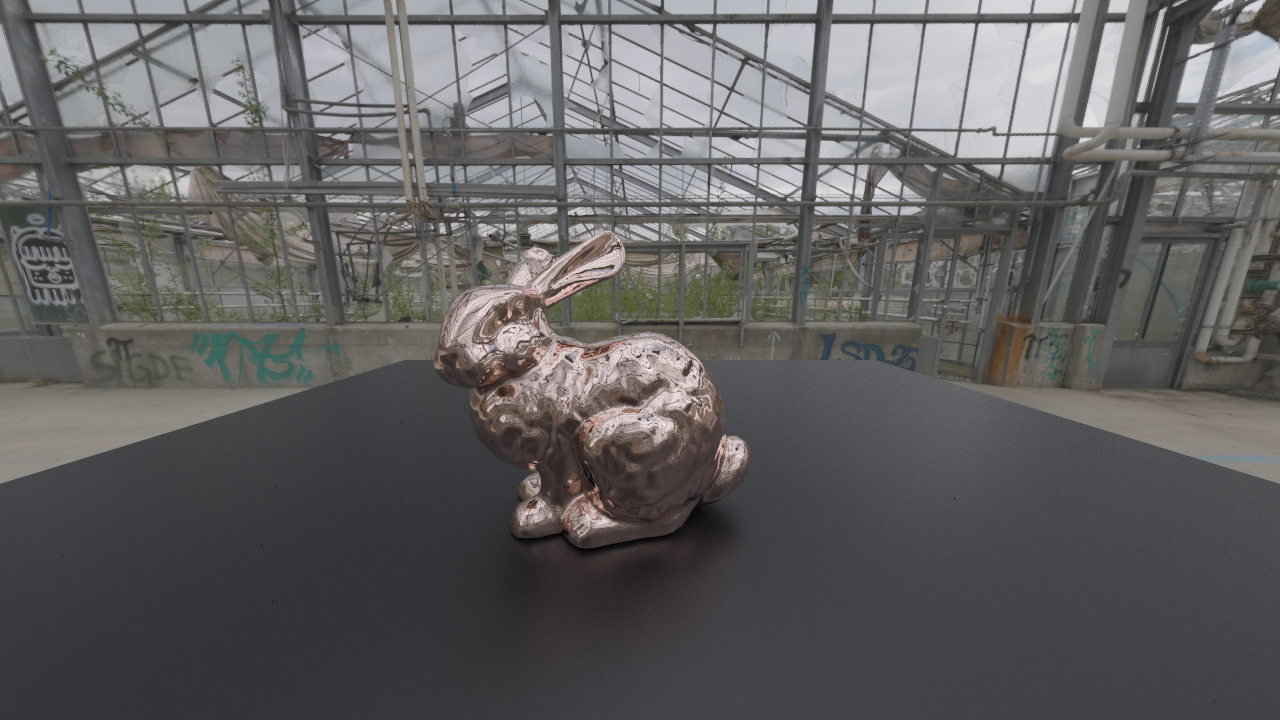
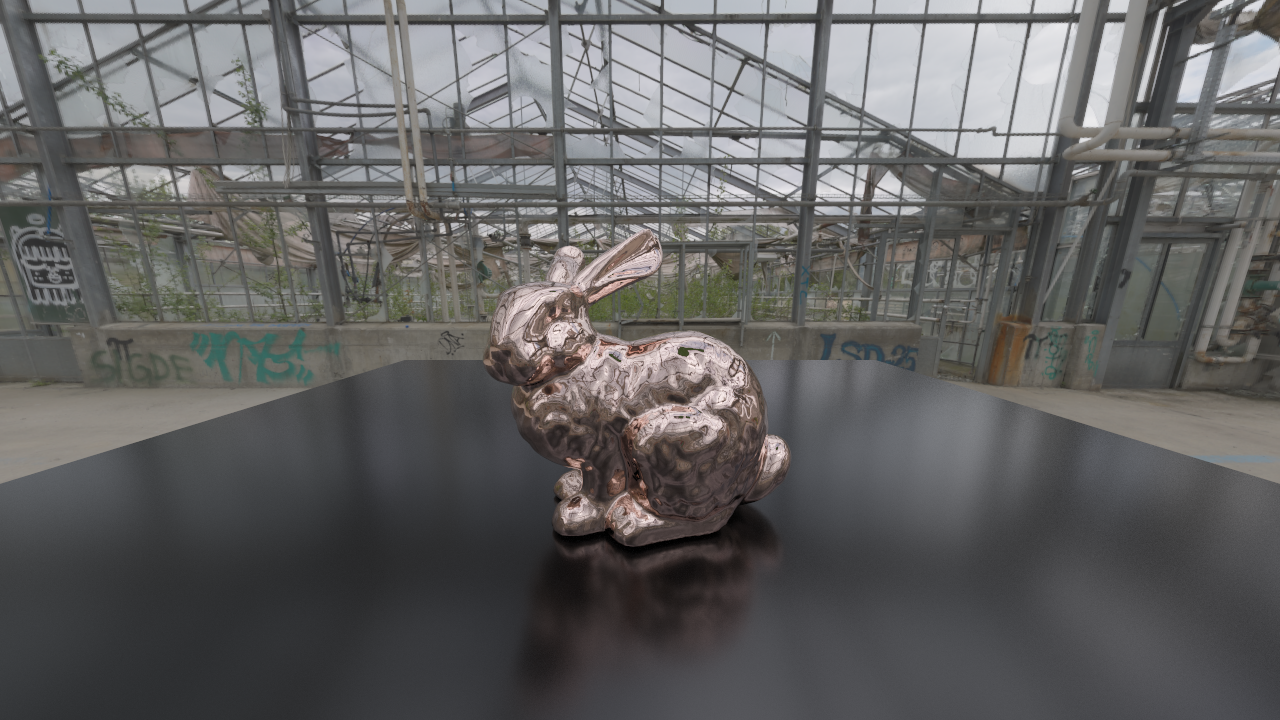
.

diff --git a/pbr_core/src/material.rs b/pbr_core/src/material.rs
@@ -34,6 +34,8 @@ pub trait MicrofacetDistribution {
     fn sample_facet(&self, o: &Vector3<f32>) -> (Vector3<f32>, f32);
 }
 
+
+// Source: https://www.cs.cornell.edu/~srm/publications/EGSR07-btdf.pdf
 pub struct Ggx {
     alpha: f32,    
 }
@@ -58,18 +60,34 @@ impl MicrofacetDistribution for Ggx {
         let mdotn = ndot(m);
         let paren = (alpha2 - 1.0) * mdotn * mdotn + 1.0;
         
-        alpha2 * heavi(mdotn) / (PI * paren * paren)
+        let density = alpha2 * heavi(mdotn) / (PI * paren * paren);
+
+        if density.is_nan() {
+            println!("NaN density, m: {:?}", m);
+        }
+
+        density
     }
 
 
     fn shadowing(&self, v: &Vector3<f32>, m: &Vector3<f32>) -> f32 {
-        let alpha2 = self.alpha * self.alpha;
 
         let vdotm = m.dot(v);
         let vdotn = ndot(v);
-        let paren = alpha2 + (1.0 - alpha2) * vdotn * vdotn;
-    
-        heavi(vdotm / vdotn) * 2.0 * vdotn / (vdotn + paren.sqrt())   
+
+        let s = if (vdotm < 0.0) == (vdotn < 0.0) {
+            let alpha2 = self.alpha * self.alpha;
+            let paren = alpha2 + (1.0 - alpha2) * vdotn * vdotn;
+            2.0 * vdotn / (vdotn + paren.sqrt())
+        } else {
+            0.0
+        };
+
+        if s.is_nan() {
+            println!("NaN shadowing: v: {:?}, m: {:?}", v, m);
+        }
+
+        s
     }
 
     fn sample_facet(&self, _o: &Vector3<f32>) -> (Vector3<f32>, f32) {
@@ -84,6 +102,10 @@ impl MicrofacetDistribution for Ggx {
             theta_m.sin() * phi_m.sin(),
             theta_m.cos()
         );
+
+        if m.x.is_nan() || m.y.is_nan() || m.z.is_nan() {
+            println!("Bad facet sampled, theta: {}, phi: {}", theta_m, phi_m);
+        }
 
         let pdf = self.facet_density(&m) * ndot(&m);
 

diff --git a/pbr_core/src/tone_map/reinhard.rs b/pbr_core/src/tone_map/reinhard.rs
@@ -4,9 +4,6 @@ use crate::{texture::Texture, spectrum::Spectrum};
 
 use super::ToneMap;
 
-
-
-
 pub struct ReinhardToneMap {
     white_point: Option<f32>,
 }
@@ -19,24 +16,30 @@ impl ReinhardToneMap {
     pub fn with_whitepoint(white_point: f32) -> ReinhardToneMap {
         ReinhardToneMap { white_point: Some(white_point) }
     }
-
-
-
 }
+
+fn luminance(col: &Spectrum<f32>) -> f32 {
+    col.r * 0.2126 + col.g * 0.7152 + col.b * 0.0722
+}
+
 fn compute_white_point(img: &Texture<Spectrum<f32>>) -> f32 {
     img.par_pixels()
-        .map(|(_xy, px)| px.r.max(px.g).max(px.b))
-        .max_by(|x, y| x.total_cmp(&y))
+        .map(|(_xy, px)| luminance(px))
+        .max_by(|a, b| a.total_cmp(&b))
         .unwrap()
 }
 
 impl ToneMap for ReinhardToneMap {
     fn apply(&self, img: &mut Texture<Spectrum<f32>>) {
         
-        let white_point = self.white_point.unwrap_or_else(|| compute_white_point(img));
-        let white_point2 = white_point * white_point;
+        let l_wp = self.white_point.unwrap_or_else(|| compute_white_point(img));
+        let l_wp2 = l_wp * l_wp;
 
         img.par_pixels_mut()
-            .for_each(|(_xy, px)| px.apply(|x| *x = *x * (1.0 + *x / white_point2) / (1.0 + *x)));
+            .for_each(|(_xy, px)| {
+                let l_old = luminance(px);
+                let l_new = l_old * (1.0 + l_old / l_wp2) / (1.0 + l_old);
+                *px = *px * l_new / l_old
+            });
     }
 }

diff --git a/pbr_gui/src/main.rs b/pbr_gui/src/main.rs
@@ -1,3 +1,4 @@
+#![allow(unused_imports)]
 
 use std::ops::Mul;
 
@@ -47,7 +48,6 @@ fn main() {
     println!("Build time: {}s", (std::time::Instant::now() - begin_time).as_secs_f32());
     
     let integrator = BruteForcer::new(4, 512);
-    let tone_map = ReinhardToneMap::with_whitepoint(100.0);
     
     let event_loop = EventLoop::new();
     let size = LogicalSize::new(render_size.0, render_size.1);
@@ -66,11 +66,17 @@ fn main() {
     let _render_thread = std::thread::spawn(move || {
         let begin_time = std::time::Instant::now();
         
-        let mut render_img = integrator.render(&scene, render_size, |img| tx.send(img.clone()).unwrap_or(()));
-        tone_map.apply(&mut render_img);
+        let render_img = integrator.render(&scene, render_size, |img| tx.send(img.clone()).unwrap_or(()));
 
         println!("Render time: {}s", (std::time::Instant::now() - begin_time).as_secs_f32());
-        render_img.save("test.png");
+
+        let mut render_img_linear = render_img.clone();
+        LinearToneMap::new().apply(&mut render_img_linear);
+        render_img_linear.save("test_linear.png");
+
+        let mut render_img_reinhard = render_img.clone();
+        ReinhardToneMap::new().apply(&mut render_img_reinhard);
+        render_img_reinhard.save("test_reinhard.png");
     });
 
     event_loop.run(move |event, _, control_flow| {

diff --git a/pbr_core/src/material/micro.rs b/pbr_core/src/material/micro.rs
@@ -32,16 +32,23 @@ impl<T> Material for MicrofacetMaterial<T> where
 
         let distribution = T::new_isotropic(self.roughness);
         
-        let m = (wi + wo).normalize();
-
-        let fresnel   = fresnel_schlick(wi, &m);
-        let distr     = distribution.facet_density(&m);
-        let shadowing = distribution.shadowing(wi, &m) * distribution.shadowing(wo, &m);
-
         let idotn = ndot(&wi);
         let odotn = ndot(&wo);
+        if idotn == 0.0 || odotn == 0.0 {
+            return Spectrum::black();
+        }
 
-        let brdf_value = fresnel * distr * shadowing / (4.0 * idotn * odotn);
+        let m = wi + wo;
+        if m.x == 0.0 && m.y == 0.0 && m.z == 0.0 {
+            return Spectrum::black();
+        }
+        let m = m.normalize();
+
+        let fresnel   = fresnel_schlick(wi, &m);
+        let density   = distribution.facet_density(&m);
+        let shadowing = distribution.shadowing(wi, &m) * distribution.shadowing(wo, &m);
+
+        let brdf_value = fresnel * density * shadowing / (4.0 * idotn * odotn);
 
         Spectrum::constant(brdf_value)
     }

diff --git a/pbr_core/src/material/metal.rs b/pbr_core/src/material/metal.rs
@@ -33,15 +33,23 @@ impl<T> Material for MetalMaterial<T> where
     T: MicrofacetDistribution + Send + Sync,
 {
     fn brdf(&self, _uv: &Point2<f32>, wi: &Vector3<f32>, wo: &Vector3<f32>) -> Spectrum<f32> {
-        let m = (wi + wo).normalize();
         let distribution = T::new_isotropic(self.roughness);
+
+        let idotn = ndot(&wi);
+        let odotn = ndot(&wo);
+        if idotn == 0.0 || odotn == 0.0 {
+            return Spectrum::black();
+        }
+
+        let m = wi + wo;
+        if m.x == 0.0 && m.y == 0.0 && m.z == 0.0 {
+            return Spectrum::black();
+        }
+        let m = m.normalize();
 
         let fresnel = conductor_fresnel(&self.base_reflectance, wi, &m);
         let density = distribution.facet_density(&m);
         let shadowing = distribution.shadowing(wi, &m) * distribution.shadowing(wo, &m);
-
-        let idotn = ndot(&wi);
-        let odotn = ndot(&wo);
 
         fresnel * (density * shadowing / (4.0 * idotn * odotn))
     }

diff --git a/pbr_core/src/integrator/brute_forcer.rs b/pbr_core/src/integrator/brute_forcer.rs
@@ -33,15 +33,18 @@ impl BruteForcer
 
             let wo = w2t * -ray.direction;
             let sample = p.sample_brdf(&wo);
-            let sample_dir = t2w * sample.wi;
-
+            
             let next_ray = Ray {
                 origin: p.position + 0.0001 * p.normal,
-                direction: sample_dir,
-            };  
+                direction: t2w * sample.wi,
+            };
 
             let sample_radiance = self.sample_recursive(next_ray, scene, depth+1);
             
+            if sample.brdf.any_nan() {
+                println!("NaN BRDF: {:?}", sample.brdf);
+            }
+
             return sample.brdf * sample_radiance * (sample.wi.z / sample.pdf);
 
         } else {

diff --git a/pbr_core/src/tone_map/linear.rs b/pbr_core/src/tone_map/linear.rs
@@ -5,18 +5,24 @@ use crate::{texture::Texture, spectrum::Spectrum};
 use super::ToneMap;
 
 
-pub struct LinearToneMap {}
+pub struct LinearToneMap {
+    factor: f32,
+}
 
 
 impl LinearToneMap {
     pub fn new() -> LinearToneMap {
-        LinearToneMap {}
+        LinearToneMap { factor: 1.0 }
+    }
+
+    pub fn new_scaling(factor: f32) -> LinearToneMap {
+        LinearToneMap { factor }
     }
 }
 
 impl ToneMap for LinearToneMap {
     fn apply(&self, img: &mut Texture<Spectrum<f32>>) {
         img.par_pixels_mut()
-            .for_each(|(_xy, px)| px.apply(|x| *x = x.clamp(0.0, 1.0)));
+            .for_each(|(_xy, px)| px.apply(|x| *x = (*x * self.factor).clamp(0.0, 1.0)));
     }
 }

diff --git a/pbr_core/src/spectrum.rs b/pbr_core/src/spectrum.rs
@@ -28,6 +28,15 @@ impl<T: Scalar> Spectrum<T> {
     }
 }
 
+impl Spectrum<f32> {
+    
+    pub fn any_nan(&self) -> bool {
+        self.r.is_nan() ||
+        self.g.is_nan() ||
+        self.b.is_nan()
+    } 
+}
+
 impl<T: Scalar> Spectrum<T> where
     T: Zero,
 {

diff --git a/pbr_core/src/tone_map.rs b/pbr_core/src/tone_map.rs
@@ -10,4 +10,5 @@ pub use linear::LinearToneMap;
 
 pub trait ToneMap {
     fn apply(&self, img: &mut Texture<Spectrum<f32>>);
+
 }

diff --git a/pbr_core/src/lib.rs b/pbr_core/src/lib.rs
@@ -1,4 +1,4 @@
-#![feature(sync_unsafe_cell)]
+#![feature(unboxed_closures)]
 
 pub use nalgebra;
 
